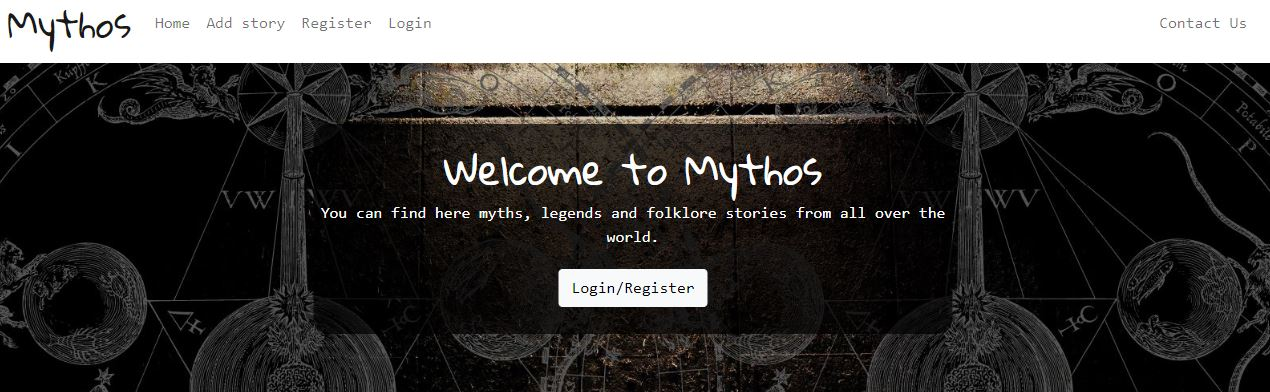
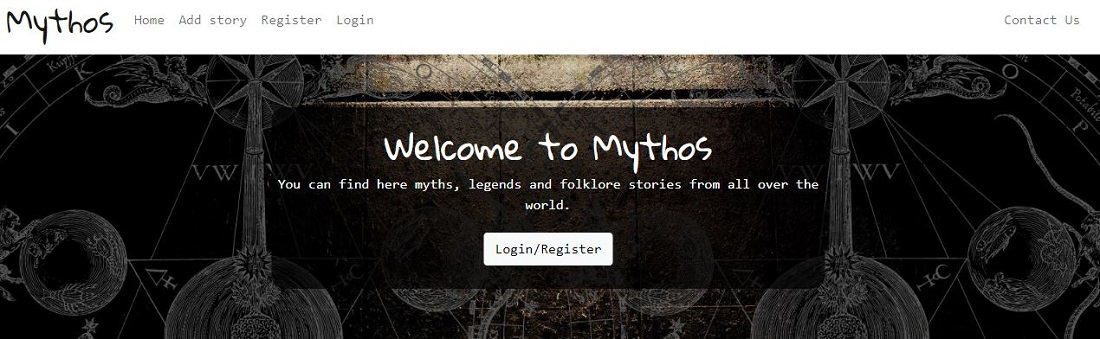
Upload resized images, add following sections to README: add comment, add story, delete post, contact page

diff --git a/README.md b/README.md
@@ -65,7 +65,36 @@ The development of this project was managed and implemented using GitHub Project
 
 ![Latest stories with placeholder image](./media/images/latest_stories_section_no_image.JPG)
 
+- Page with the full view of the story as an user
 
+![Full story](./media/images/story_page_user_view.JPG)
+
+- Page with the full view of the story as an author which shows *edit* and *delete* links underneath the author's name & date of posting
+
+![Full story](./media/images/story_page_author_view.JPG)
+
+## Add comment page
+
+![Add comment page](./media/images/add_comment_page.JPG)
+
+## Add story page
+
+- If users are not logged in it will redirect them to login page before they can add a story
+- Otherwise users are taken to the correct page immediately. They must fill in **title**, add **story** text and can choose to upload an image if they wish so. This image is then saved to my Cloudinary database
+
+![Add story page](./media/images//add_story_page.JPG)
+
+## Delete post page
+
+- Users are shown title of the story to be deleted and asked if they are sure to delete and two buttons are shown - *Delete* abd *Go back* which will take the user back to home page
+
+![Delete post](./media/images/delete_post_page.JPG)
+
+## Contact page
+
+- Users can contact the site administrator by filling in simple form on screen where they are required to give their **name**, **email address**, **subject** and then type in their **message**
+
+![Contact page](./media/images/contact_page.JPG)
 
 # Wireframes
 Wireframes were created using Balsamiq.
